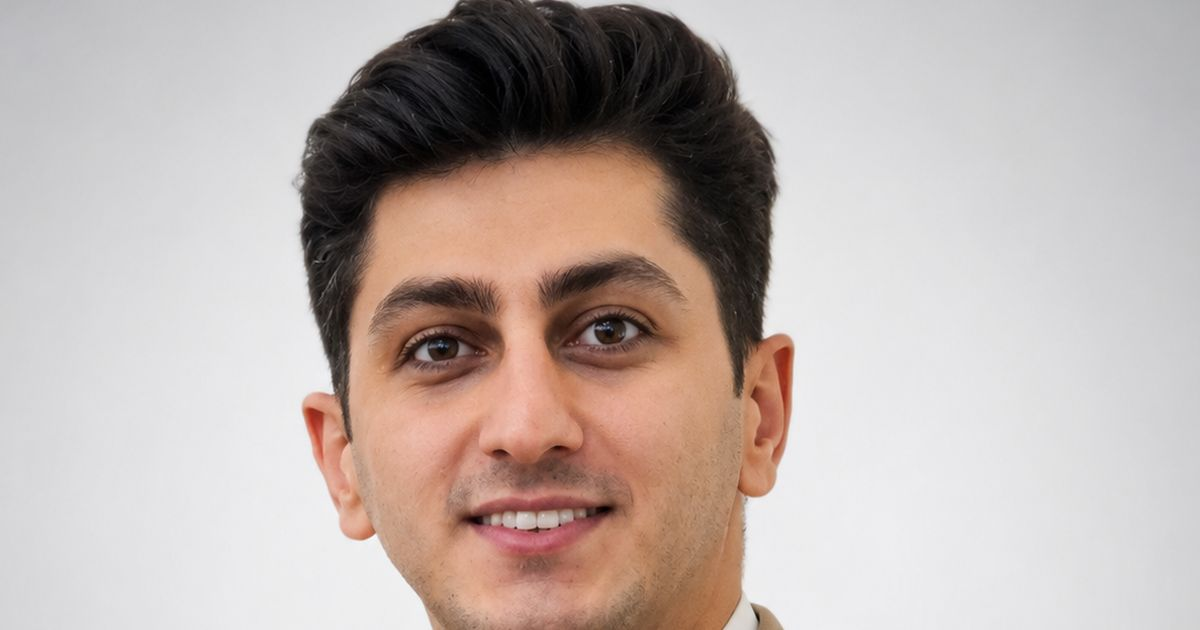
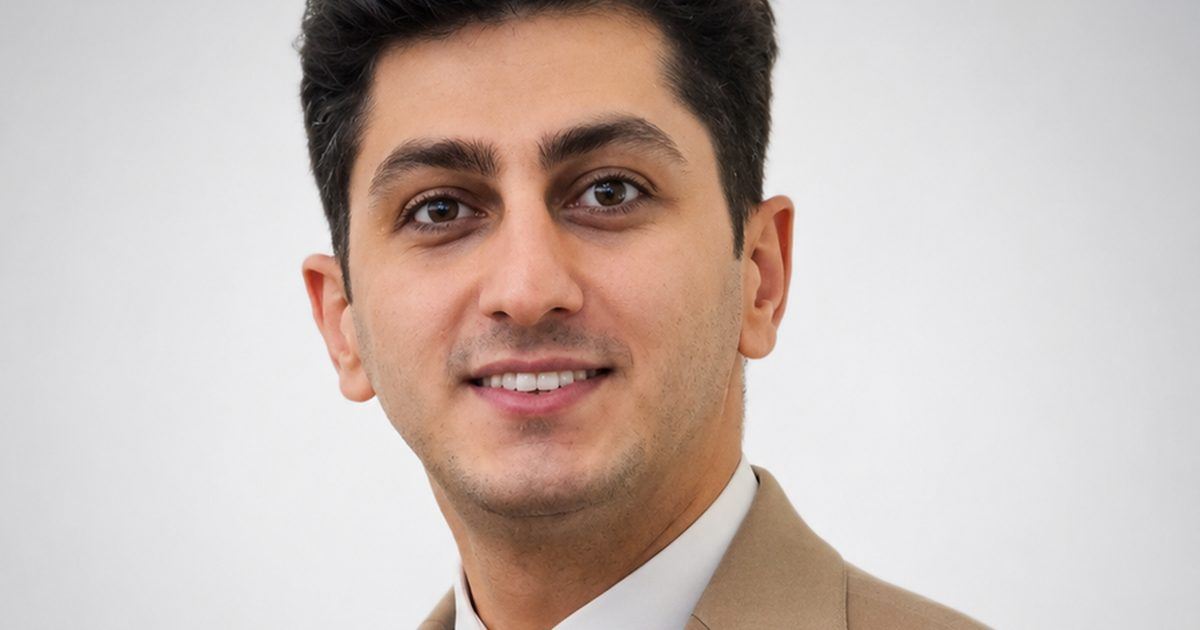
Crop the hero portrait to a square headshot so it no longer stretches tall.

diff --git a/styles.css b/styles.css
@@ -88,7 +88,7 @@ h3 { margin: 0 0 8px; line-height: 1.25; }
 }
 .hero-photo-wrap {
   justify-self: end;
-  width: min(100%, 360px);
+  width: min(100%, 320px);
   position: relative;
 }
 .hero-photo-wrap:after {
@@ -96,13 +96,16 @@ h3 { margin: 0 0 8px; line-height: 1.25; }
   position: absolute;
   width: 70%;
   height: 70%;
-  right: -25px;
-  bottom: -25px;
+  right: -18px;
+  bottom: -18px;
   background: var(--accent);
   z-index: -1;
 }
 .hero-photo {
   width: 100%;
+  aspect-ratio: 1 / 1;
+  object-fit: cover;
+  object-position: center top;
   display: block;
   filter: saturate(.92);
 }
@@ -235,7 +238,7 @@ footer {
   .nav nav a:not(.nav-cta) { display: none; }
   .section { padding: 75px 20px; }
   .hero { min-height: auto; grid-template-columns: 1fr; gap: 50px; }
-  .hero-photo-wrap { justify-self: start; width: min(75vw, 300px); }
+  .hero-photo-wrap { justify-self: start; width: min(70vw, 260px); }
   .intro-grid, .education { grid-template-columns: 1fr; gap: 40px; }
   .project-grid, .skill-grid { grid-template-columns: 1fr; }
   .project-card.featured { grid-column: span 1; }

diff --git a/index.html b/index.html
@@ -56,7 +56,7 @@
         </div>
       </div>
       <div class="hero-photo-wrap">
-        <img src="assets/profile.jpg" alt="Professional portrait of Ali Nobahari" class="hero-photo" width="900" height="1200">
+        <img src="assets/profile.jpg" alt="Professional portrait of Ali Nobahari" class="hero-photo" width="900" height="900">
       </div>
     </section>
 
